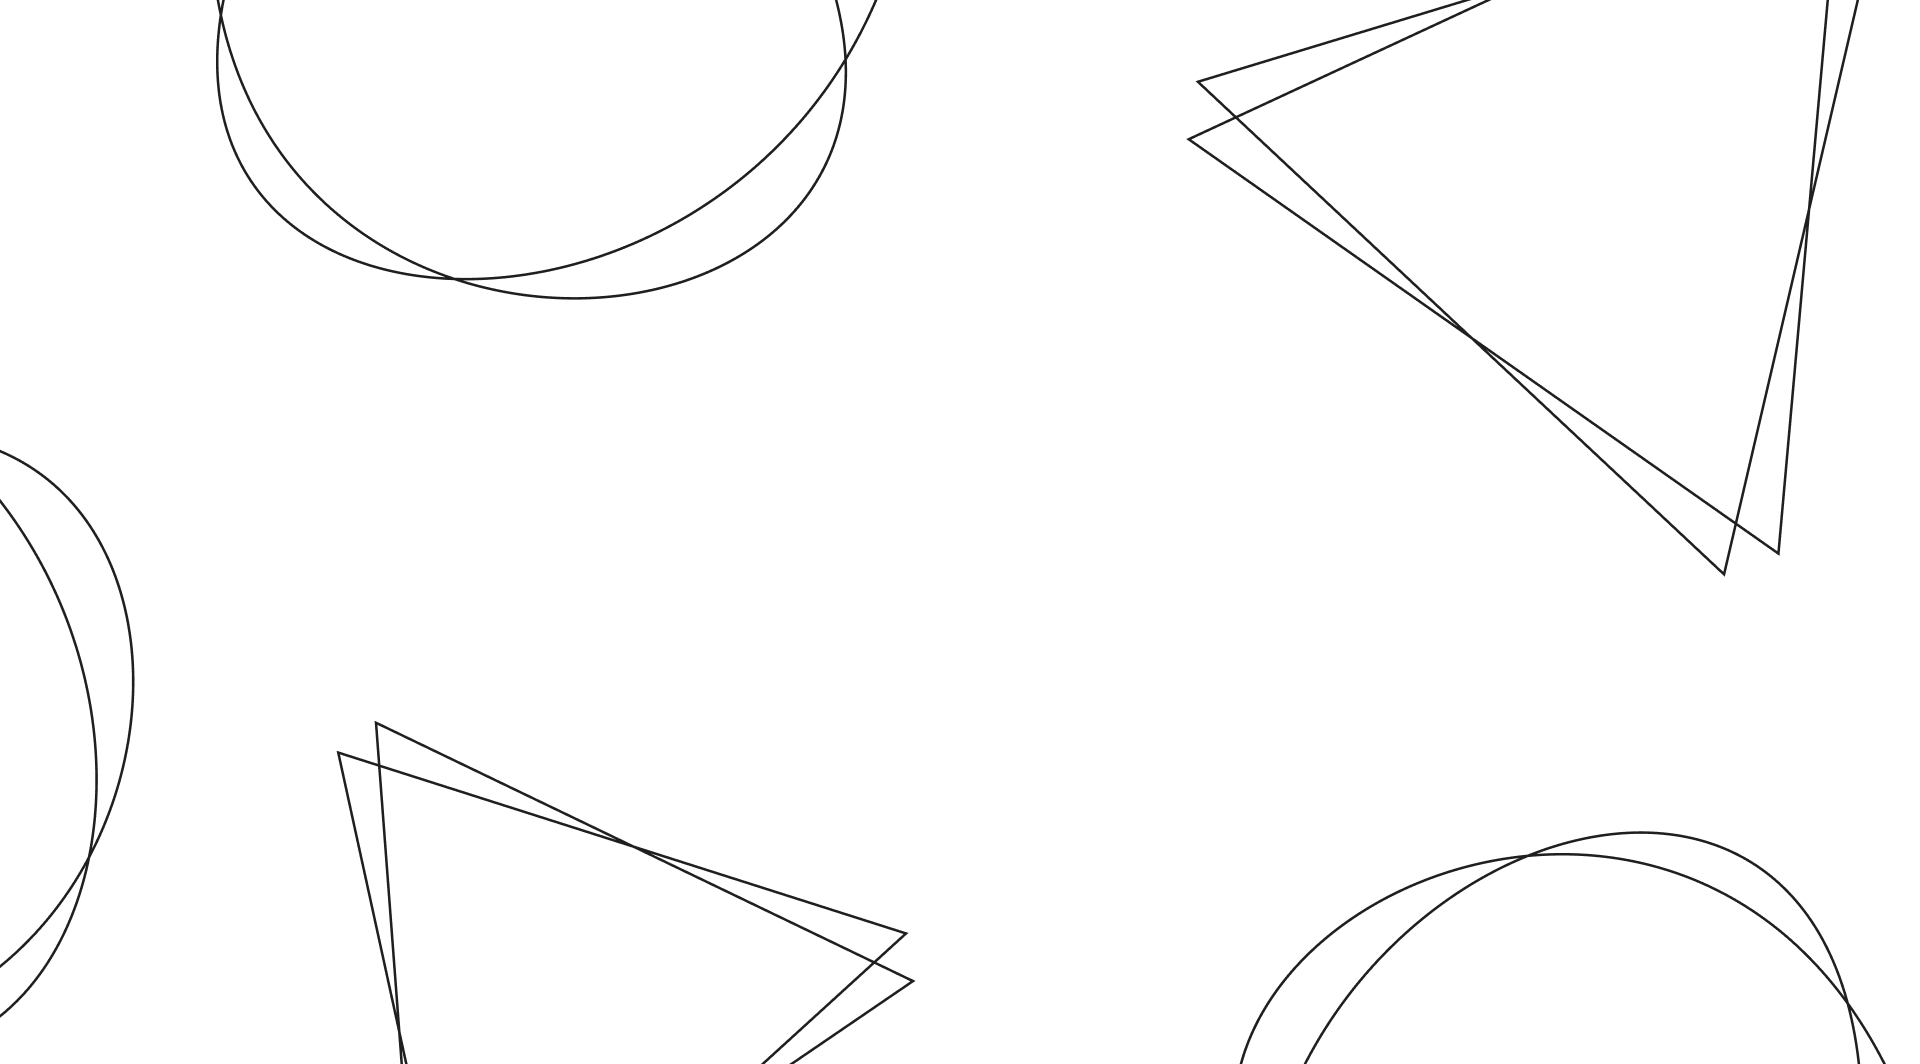
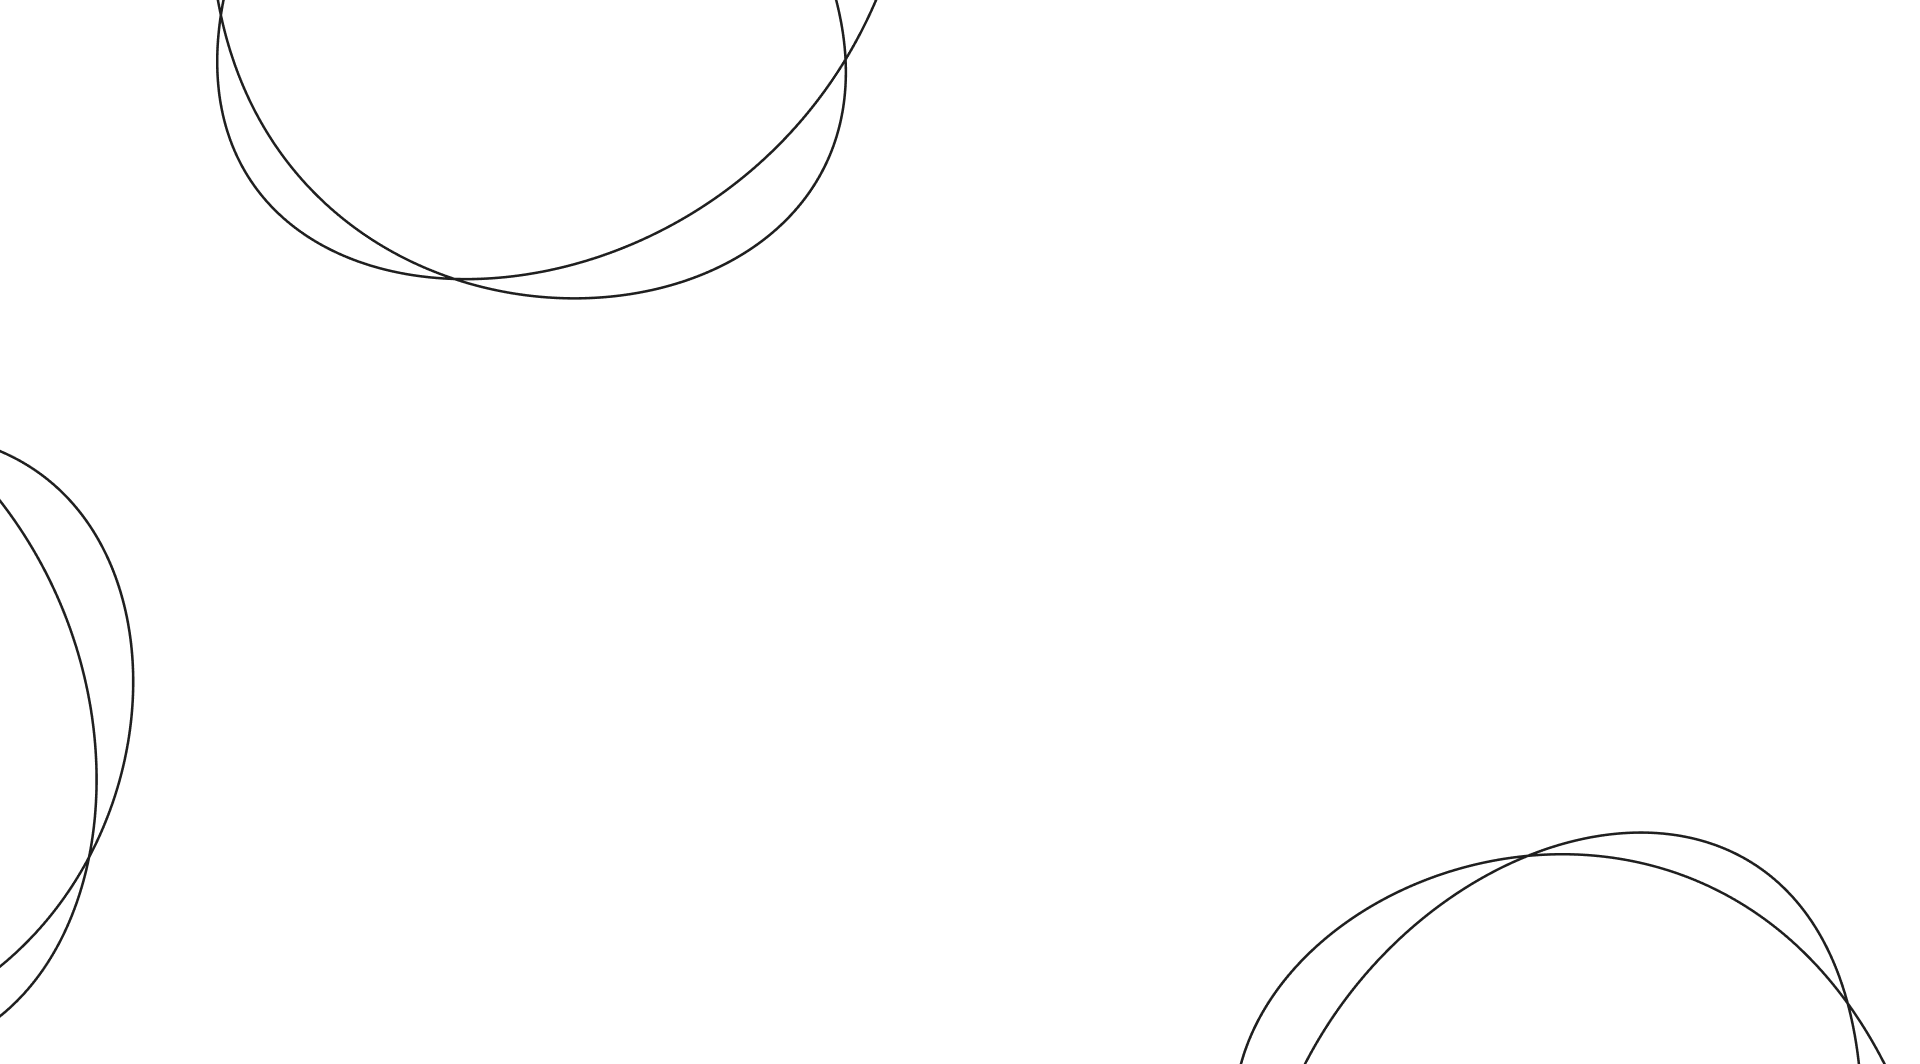
Vector tour triangles that jitter independently on hover; pills 40% closer

diff --git a/src/components/TourShapes.tsx b/src/components/TourShapes.tsx
@@ -1,0 +1,147 @@
+import { useEffect, useRef } from 'react'
+
+type Point = [number, number]
+
+const GROUPS: Point[][][] = [
+  [
+    [[1197.4, 81.3], [1723.6, 573.8], [1887, -128.1]],
+    [[1188.2, 138.7], [1777.9, 553.1], [1842, -164.8]],
+  ],
+  [
+    [[912.5, 980.5], [420.3, 1316.6], [375.5, 722.3]],
+    [[905.4, 933], [465, 1334.4], [337.8, 752]],
+  ],
+]
+
+const SHIFT = 5
+const TILT = 1.4
+const TOUCH_HOLD = 1400
+
+const centroid = (tri: Point[]): Point => [
+  (tri[0]![0] + tri[1]![0] + tri[2]![0]) / 3,
+  (tri[0]![1] + tri[1]![1] + tri[2]![1]) / 3,
+]
+
+function inside([x, y]: Point, tri: Point[], pad: number) {
+  const [a, b, c] = tri as [Point, Point, Point]
+  const [cx, cy] = centroid(tri)
+  const grow = (p: Point): Point => {
+    const d = Math.hypot(p[0] - cx, p[1] - cy)
+    return [p[0] + ((p[0] - cx) / d) * pad, p[1] + ((p[1] - cy) / d) * pad]
+  }
+  const [p, q, r] = [grow(a), grow(b), grow(c)]
+  const side = (u: Point, v: Point) => (v[0] - u[0]) * (y - u[1]) - (v[1] - u[1]) * (x - u[0])
+  const s1 = side(p, q)
+  const s2 = side(q, r)
+  const s3 = side(r, p)
+  return (s1 >= 0 && s2 >= 0 && s3 >= 0) || (s1 <= 0 && s2 <= 0 && s3 <= 0)
+}
+
+export function TourShapes() {
+  const svgRef = useRef<SVGSVGElement>(null)
+  const nodes = useRef<(SVGPolygonElement | null)[]>([])
+
+  useEffect(() => {
+    const svg = svgRef.current
+    const section = svg?.closest('section')
+    if (!svg || !section || window.matchMedia('(prefers-reduced-motion: reduce)').matches) return
+
+    const tris = GROUPS.flat()
+    const state = tris.map(() => ({ x: 0, y: 0, r: 0, tx: 0, ty: 0, tr: 0, next: 0 }))
+    const touched = GROUPS.map(() => 0)
+    let pointer: Point | null = null
+    let raf = 0
+    let last = 0
+    const wake = () => {
+      if (!raf) raf = requestAnimationFrame(tick)
+    }
+
+    const toStage = (event: PointerEvent): Point | null => {
+      const matrix = svg.getScreenCTM()
+      if (!matrix) return null
+      const point = new DOMPoint(event.clientX, event.clientY).matrixTransform(matrix.inverse())
+      return [point.x, point.y]
+    }
+
+    const hovers = (group: Point[][]) => pointer !== null && group.some((tri) => inside(pointer!, tri, 28))
+
+    function tick(now: number) {
+      const dt = Math.min(0.05, last ? (now - last) / 1000 : 0.016)
+      last = now
+      let moving = false
+      let offset = 0
+      GROUPS.forEach((group, groupIndex) => {
+        const on = hovers(group) || touched[groupIndex]! > now
+        group.forEach((tri, i) => {
+          const s = state[offset + i]!
+          if (on && now > s.next) {
+            s.tx = (Math.random() * 2 - 1) * SHIFT
+            s.ty = (Math.random() * 2 - 1) * SHIFT
+            s.tr = (Math.random() * 2 - 1) * TILT
+            s.next = now + 140 + Math.random() * 180
+          } else if (!on) {
+            s.tx = s.ty = s.tr = 0
+          }
+          const ease = 1 - Math.exp(-dt * (on ? 14 : 8))
+          s.x += (s.tx - s.x) * ease
+          s.y += (s.ty - s.y) * ease
+          s.r += (s.tr - s.r) * ease
+          if (on || Math.abs(s.x) + Math.abs(s.y) + Math.abs(s.r) > 0.01) moving = true
+          const [cx, cy] = centroid(tri)
+          nodes.current[offset + i]?.setAttribute(
+            'transform',
+            `translate(${s.x.toFixed(2)} ${s.y.toFixed(2)}) rotate(${s.r.toFixed(3)} ${cx} ${cy})`,
+          )
+        })
+        offset += group.length
+      })
+      raf = moving ? requestAnimationFrame(tick) : 0
+      if (!moving) last = 0
+    }
+
+    const onMove = (event: PointerEvent) => {
+      if (event.pointerType !== 'mouse') return
+      pointer = toStage(event)
+      wake()
+    }
+    const onLeave = () => {
+      pointer = null
+    }
+    const onDown = (event: PointerEvent) => {
+      if (event.pointerType === 'mouse') return
+      const point = toStage(event)
+      if (!point) return
+      GROUPS.forEach((group, index) => {
+        if (group.some((tri) => inside(point, tri, 28))) touched[index] = performance.now() + TOUCH_HOLD
+      })
+      wake()
+    }
+    section.addEventListener('pointermove', onMove)
+    section.addEventListener('pointerleave', onLeave)
+    section.addEventListener('pointerdown', onDown)
+    return () => {
+      cancelAnimationFrame(raf)
+      section.removeEventListener('pointermove', onMove)
+      section.removeEventListener('pointerleave', onLeave)
+      section.removeEventListener('pointerdown', onDown)
+    }
+  }, [])
+
+  let index = 0
+  return (
+    <svg ref={svgRef} className="tour-shapes" viewBox="0 0 1920 1064" aria-hidden="true">
+      {GROUPS.flat().map((tri) => {
+        const i = index++
+        return (
+          <polygon
+            key={i}
+            ref={(node) => {
+              nodes.current[i] = node
+            }}
+            points={tri.map((p) => p.join(',')).join(' ')}
+          />
+        )
+      })}
+    </svg>
+  )
+}

diff --git a/src/index.css b/src/index.css
@@ -132,6 +132,19 @@ main {
   height: 100%;
 }
 
+.tour-shapes {
+  position: absolute;
+  inset: 0;
+  width: 100%;
+  height: 100%;
+  overflow: hidden;
+  fill: none;
+  stroke: #1f1f1f;
+  stroke-width: 2.55;
+  stroke-linejoin: miter;
+  stroke-miterlimit: 12;
+}
+
 .logo {
   display: block;
   line-height: 0;
@@ -337,7 +350,7 @@ main {
 }
 
 .pill-uxui {
-  left: 29.948cqw;
+  left: 31.854cqw;
 }
 
 .pill-print {
@@ -345,7 +358,7 @@ main {
 }
 
 .pill-about {
-  left: 57.812cqw;
+  left: 55.906cqw;
 }
 
 /* Entrance after the intro */
@@ -614,7 +627,7 @@ body.is-ready .pill-about {
     position: relative;
     inset: auto;
     display: flex;
-    gap: 3cqw;
+    gap: 1.8cqw;
     margin-top: 9cqw;
   }
 

diff --git a/src/components/TourScreen.tsx b/src/components/TourScreen.tsx
@@ -1,6 +1,7 @@
 import { forwardRef } from 'react'
 import { MENU, type MenuId } from '../menu'
 import { Logo } from './Logo'
+import { TourShapes } from './TourShapes'
 
 type Props = {
   ready: boolean
@@ -17,6 +18,7 @@ export const TourScreen = forwardRef<HTMLElement, Props>(function TourScreen(
     <section ref={ref} className="tour" id="top">
       <div className="tour-stage tour-cover" aria-hidden="true">
         <img className="tour-bg" src="/tour-bg.webp" alt="" width={1920} height={1064} decoding="async" />
+        <TourShapes />
       </div>
 
       <div className="tour-stage tour-content">
